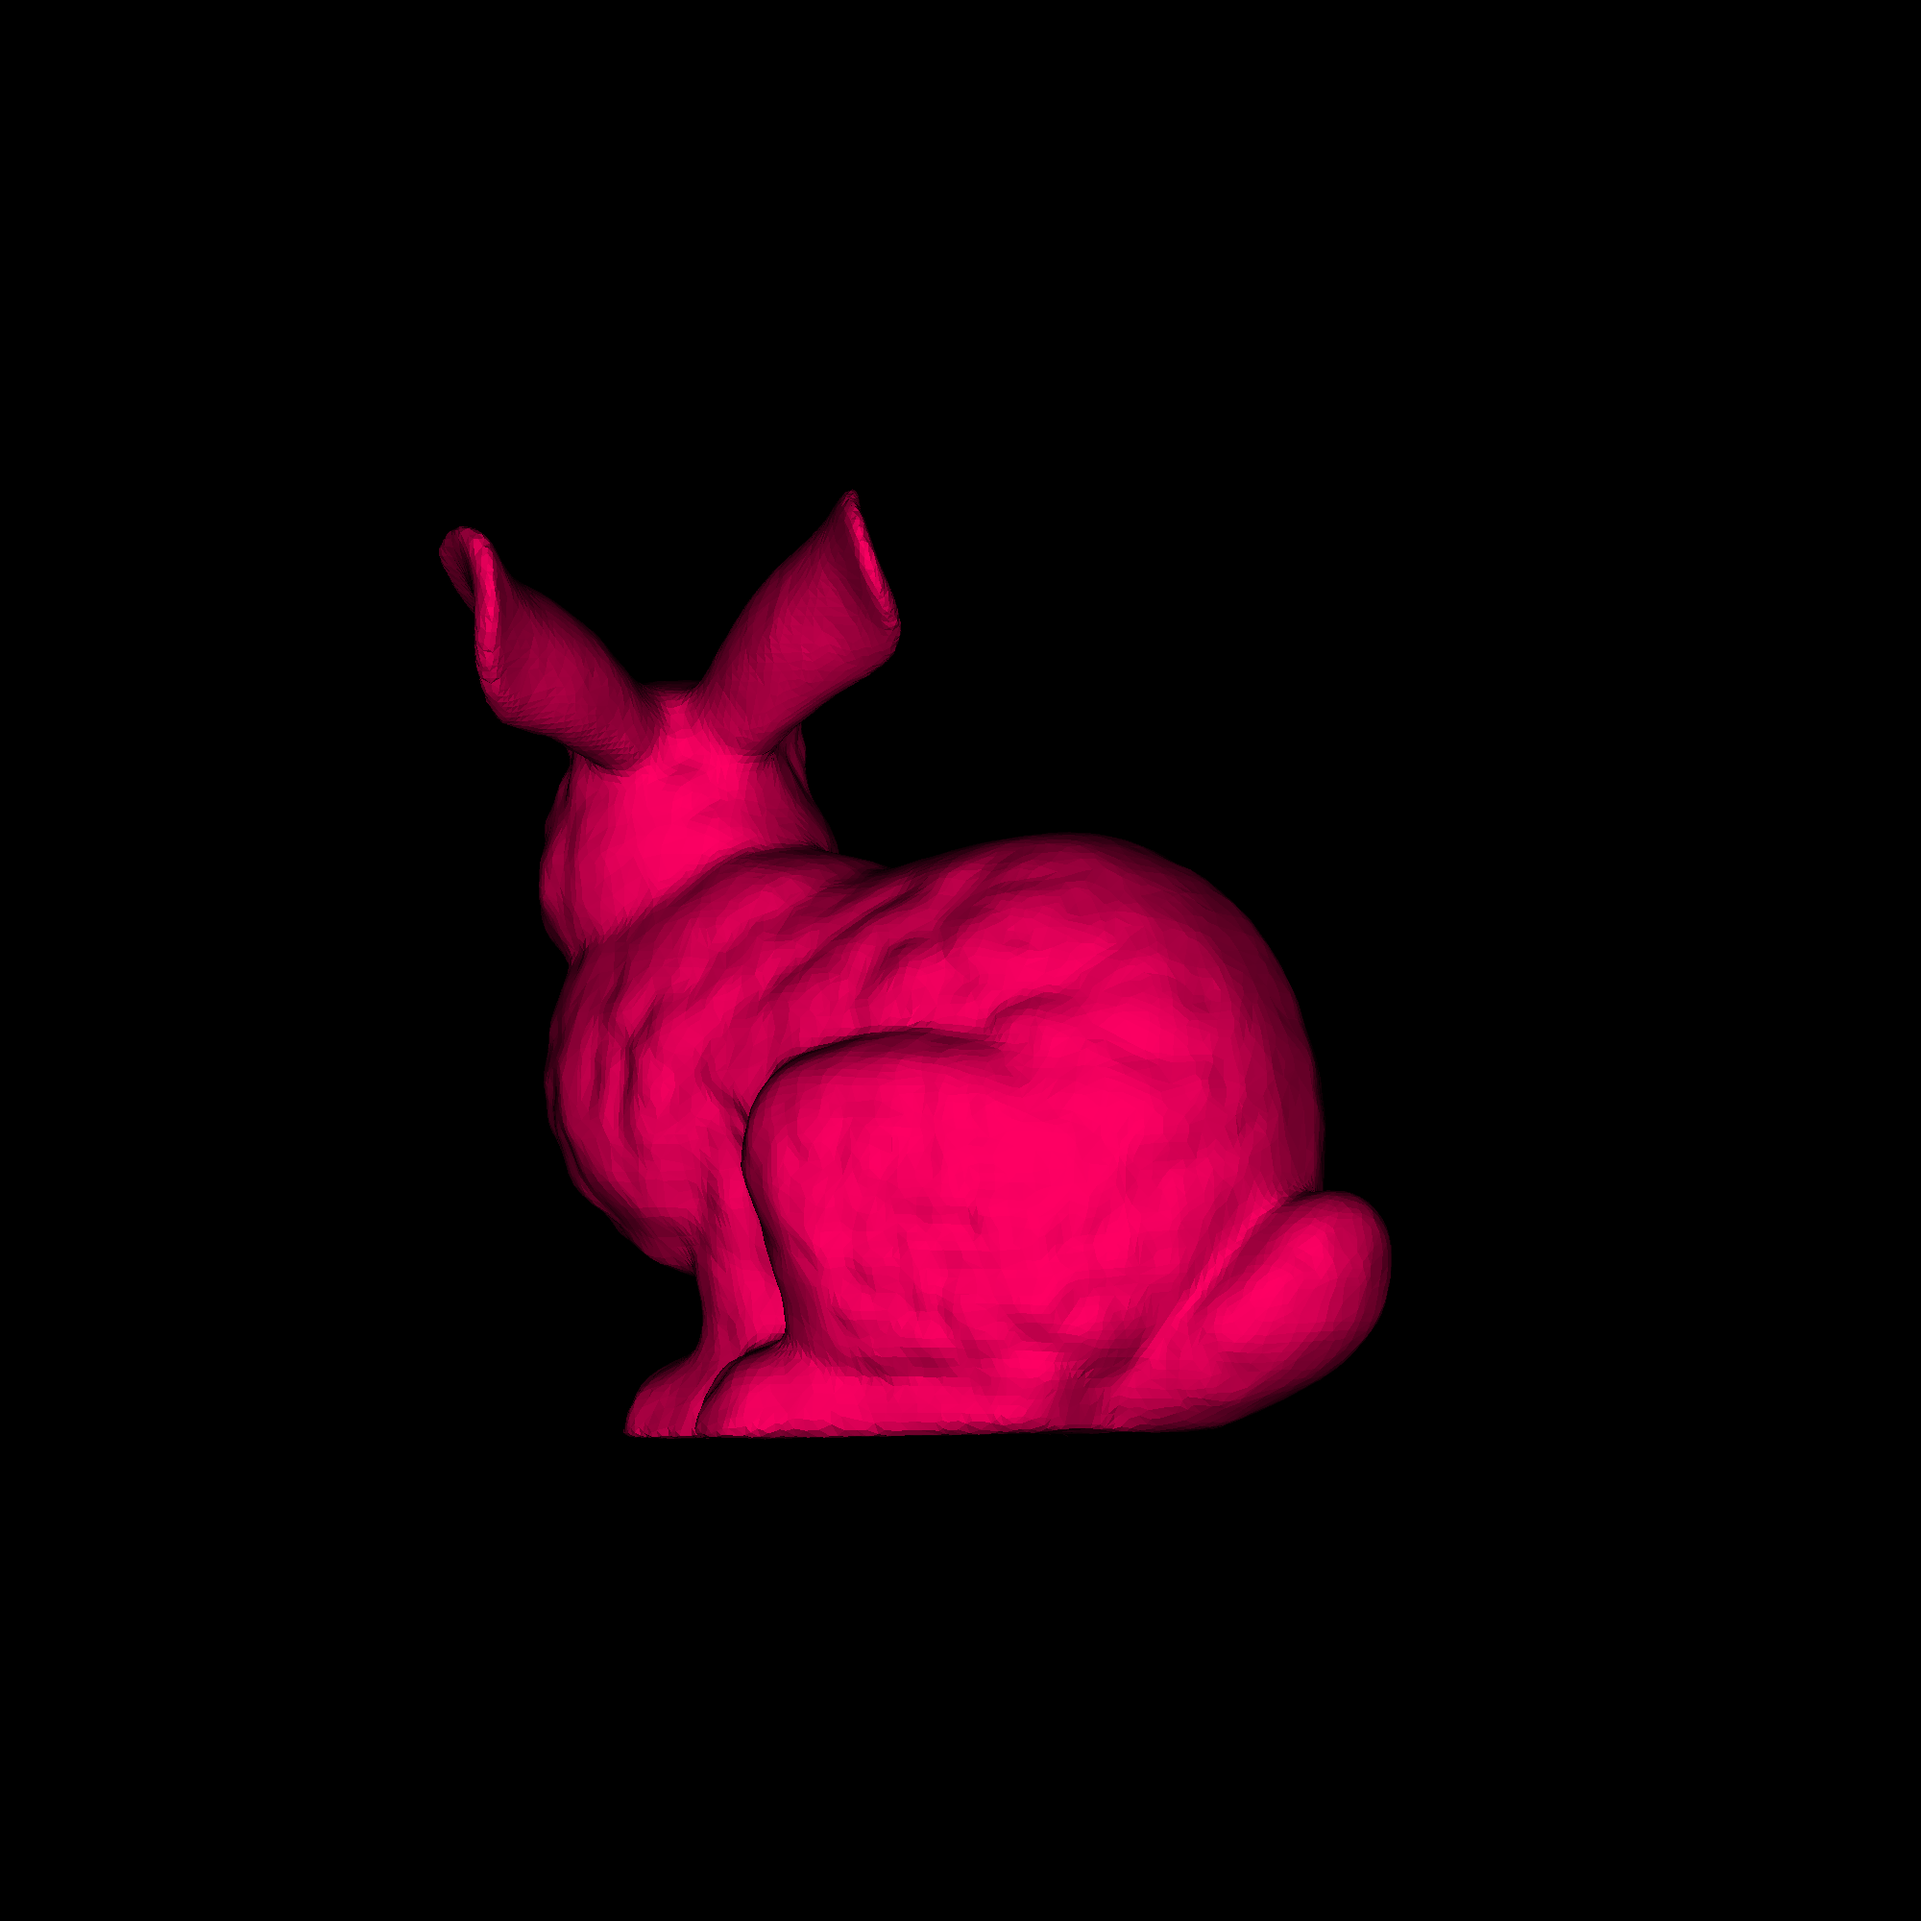
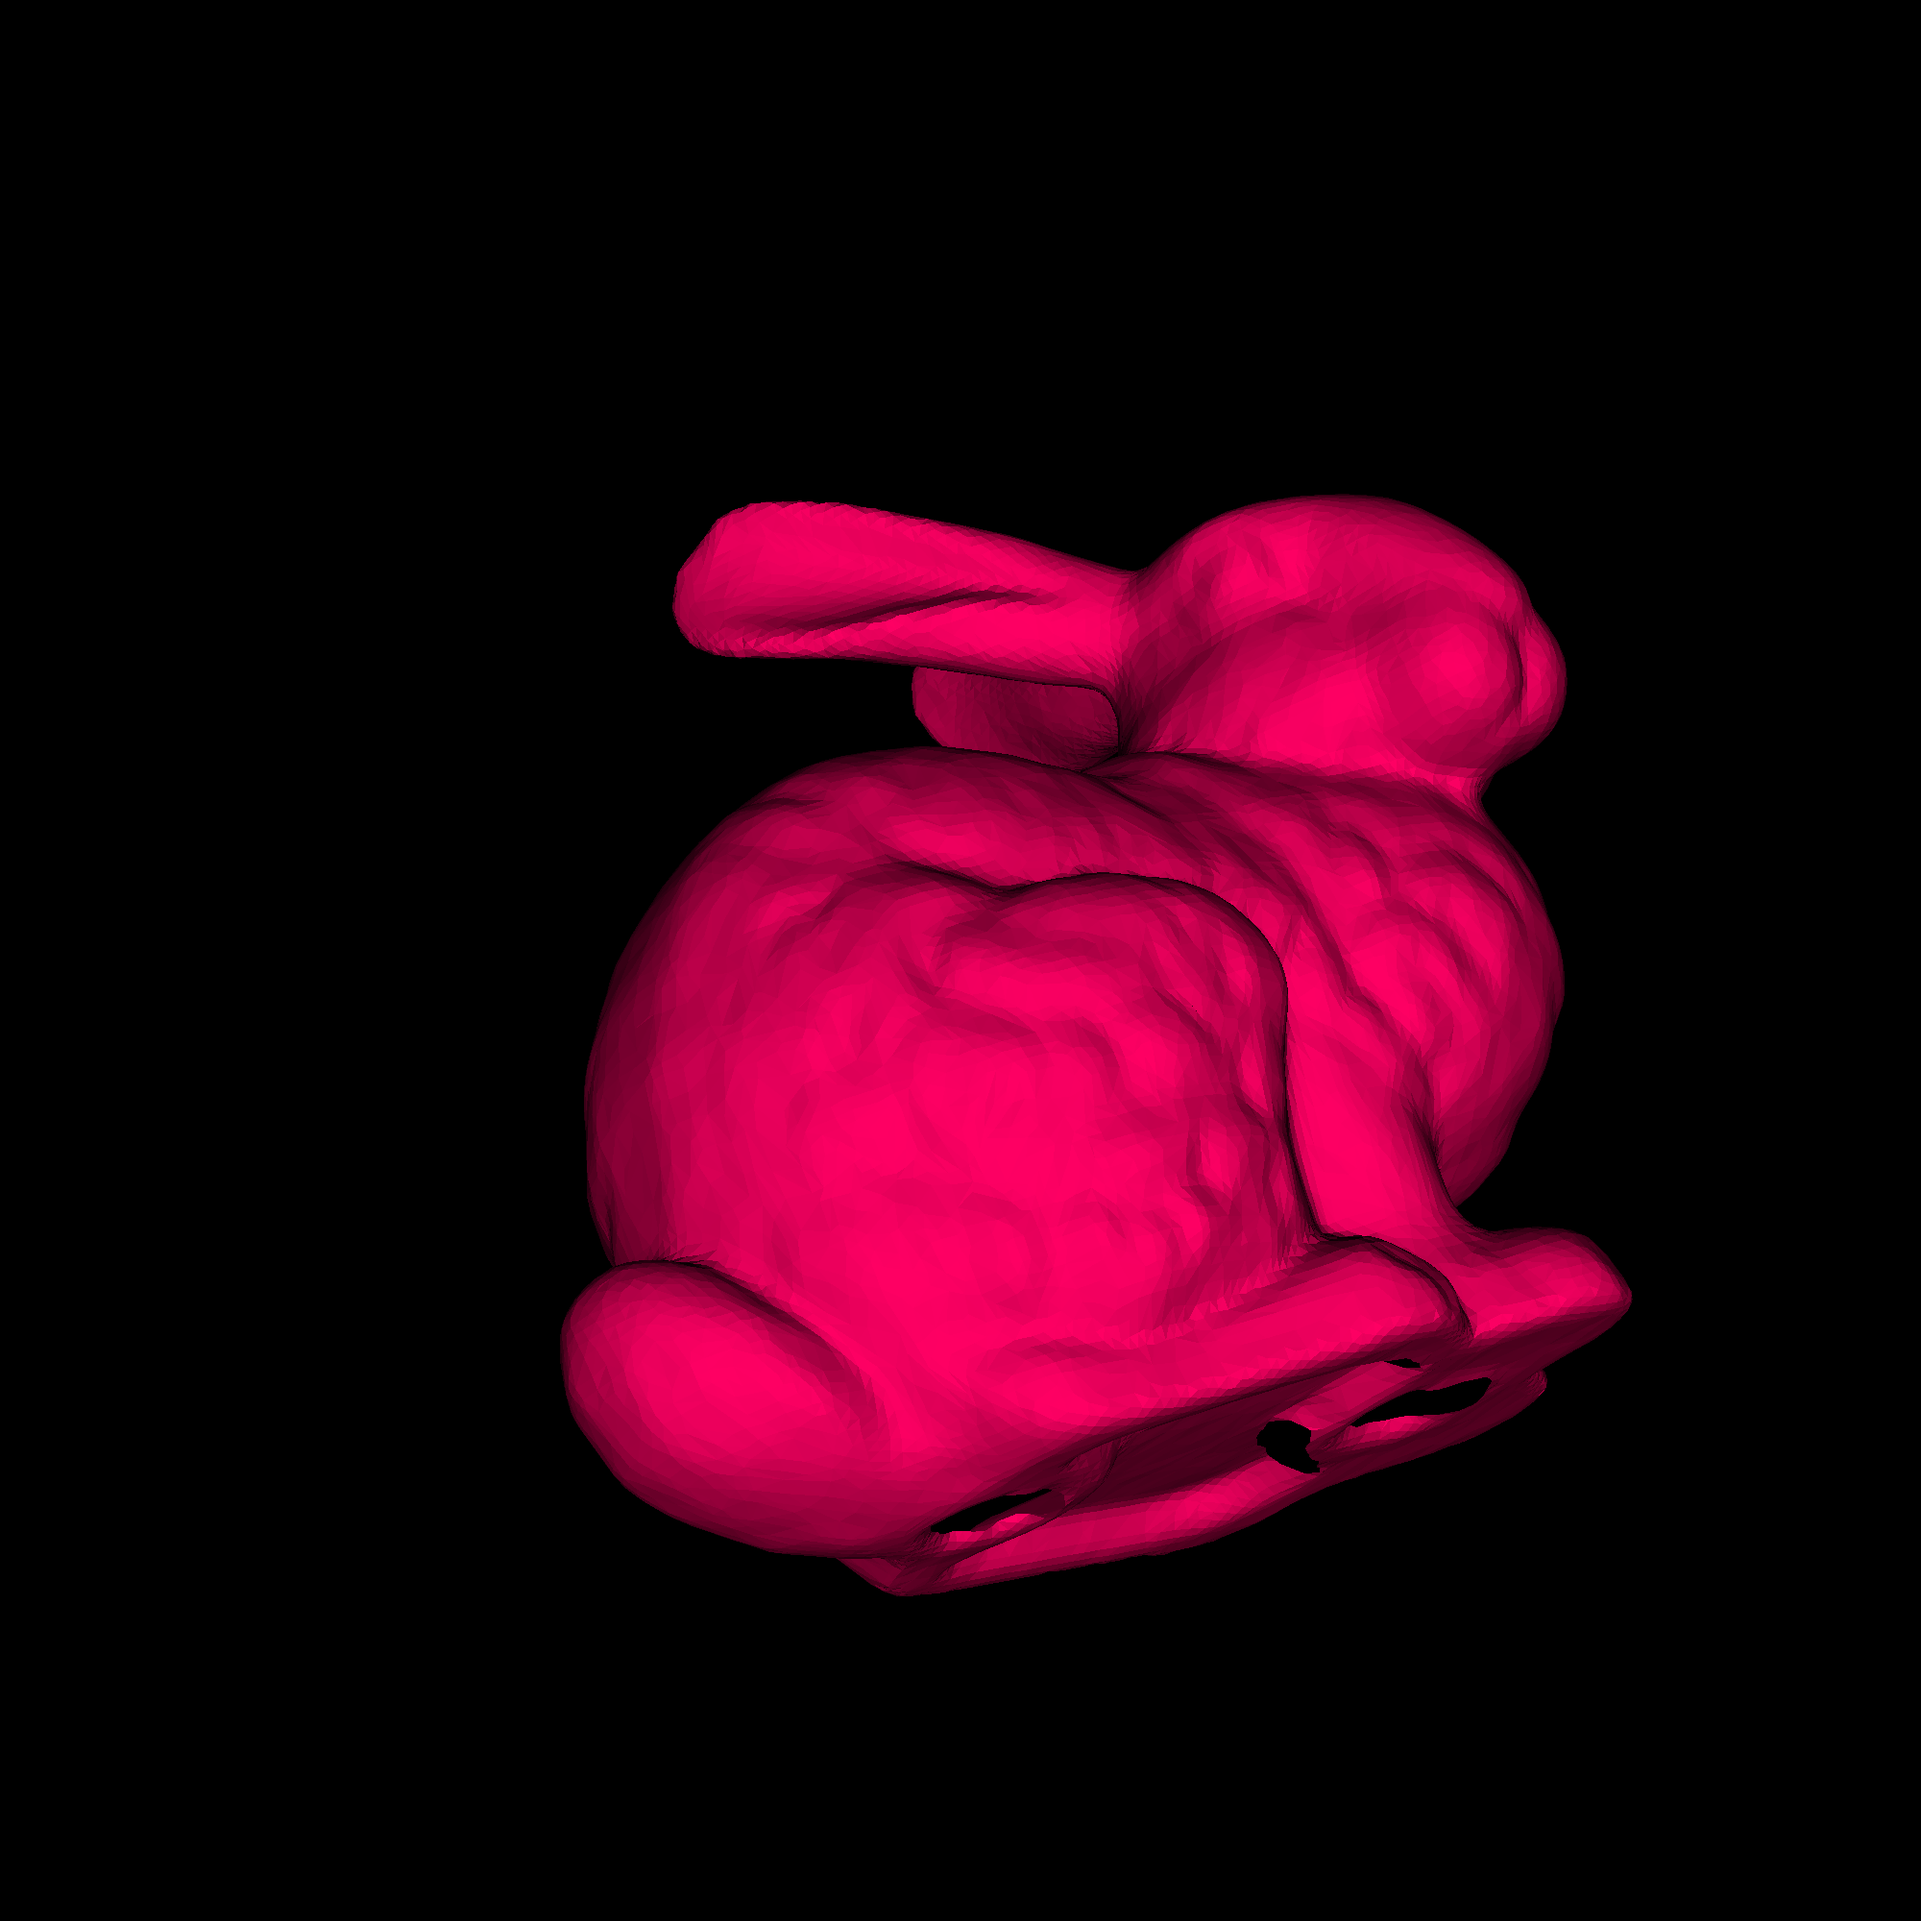
changing the rotation and the final version

Changed region(s): [[0.217, 0.248, 0.868, 0.837], [0.496, 0.62, 0.527, 0.651]]

diff --git a/lab3_kg/main.py b/lab3_kg/main.py
@@ -27,6 +27,26 @@ def triangle(x0, y0, z0, x1, y1, z1, x2, y2, z2, img, z_buff, color):
                     img[j, i] = color
     return img
 
+def project_vertex(vertex, ax, ay, u0, v0, z_offset):
+   # """Проективное преобразование 3D -> 2D"""
+    x, y, z = vertex
+    z = z + z_offset  # Сдвигаем модель, чтобы Z был положительным
+    return [
+        (ax * x / z) + u0,  # Экранная координата u
+        (ay * y / z) + v0,   # Экранная координата v
+        z  # Сохраняем z для z-буфера
+    ]
+
+
+
+def rotate_x(vertex, angle):
+    cos_a = math.cos(angle)
+    sin_a = math.sin(angle)
+    x, y, z = vertex
+    y_new = cos_a * y + sin_a * z
+    z_new = -sin_a * y + cos_a * z
+    return [x, y_new, z_new]
+
 def rotate_y(vertex, angle):
     cos_a = math.cos(angle)
     sin_a = math.sin(angle)
@@ -34,6 +54,15 @@ def rotate_y(vertex, angle):
     x_new = cos_a * x + sin_a * z
     z_new = -sin_a * x + cos_a * z
     return [x_new, y, z_new]
+
+
+def rotate_z(vertex, angle):
+    cos_a = math.cos(angle)
+    sin_a = math.sin(angle)
+    x, y, z = vertex
+    x_new = cos_a * x - sin_a * y
+    y_new = sin_a * x + cos_a * y
+    return [x_new, y_new, z]
 
 V = []
 F = []
@@ -44,30 +73,47 @@ for line in model:
     if s[0] == 'f':
         F.append([int(s[1].split('/')[0]), int(s[2].split('/')[0]), int(s[3].split('/')[0])])
 
-angle_y = math.radians(30)  # Угол поворота вокруг оси Y (30 градусов)
+# Центрирование модели
+min_coords = np.min(V, axis=0)
+max_coords = np.max(V, axis=0)
+center = (min_coords + max_coords) / 2
+V = [[v[0]-center[0], v[1]-center[1], v[2]-center[2]] for v in V]
+
+# Углы вращения (в радианах)
+angle_x = math.radians(20)  # Вращение вокруг X
+angle_y = math.radians(150)  # Вращение вокруг Y
+angle_z = math.radians(10)  # Вращение вокруг Z
+
+# Применяем вращения ко всем вершинам
+V = [rotate_x(v, angle_x) for v in V]
 V = [rotate_y(v, angle_y) for v in V]
+V = [rotate_z(v, angle_z) for v in V]
 
-img_mat = np.zeros((2000, 2000, 3), dtype=np.uint8)
-z_buff = np.full((2000, 2000), np.inf, dtype=np.float32)
+# Параметры проекции
+ax, ay = 5000, 5000  # Коэффициенты масштабирования
+u0, v0 = 1000, 1000  # Центр изображения
+z_offset = 0.4  # Сдвиг модели по Z (чтобы вся модель была перед камерой)
 
-u0,v0=1000,1000
-ax=100
-ay=100
+# Инициализация изображения и z-буфера
+img_mat = np.zeros((2000, 2000, 3), dtype=np.uint8)  # Черное изображение 2000x2000
+z_buff = np.full((2000, 2000), np.inf, dtype=np.float32)  # Z-буфер
 
-for i in range(len(F)):
-    x0 = (V[F[i][0] - 1][0]) * 10000 + 1000
-    y0 = (V[F[i][0] - 1][1]) * 10000 + 500
-    x1 = (V[F[i][1] - 1][0]) * 10000 + 1000
-    y1 = (V[F[i][1] - 1][1]) * 10000 + 500
-    x2 = (V[F[i][2] - 1][0]) * 10000 + 1000
-    y2 = (V[F[i][2] - 1][1]) * 10000 + 500
-    z0 = (V[F[i][0] - 1][2]) * 10000 + 1000   
-    z1 = (V[F[i][1] - 1][2]) * 10000 + 1000
-    z2 = (V[F[i][2] - 1][2]) * 10000 + 1000
-
-    u = np.array([x1 - x0, y1 - y0, z1 - z0])
-    v = np.array([x2 - x0, y2 - y0, z2 - z0])
-
+# Отрисовка каждой грани
+for face in F:
+    # Получаем вершины грани
+    v0_idx, v1_idx, v2_idx = face[0]-1, face[1]-1, face[2]-1
+    v0_3d = V[v0_idx]
+    v1_3d = V[v1_idx]
+    v2_3d = V[v2_idx]
+    
+    # Проецируем вершины на экран с учетом перспективы
+    v0_proj = project_vertex(v0_3d, ax, ay, u0, v0, z_offset)
+    v1_proj = project_vertex(v1_3d, ax, ay, u0, v0, z_offset)
+    v2_proj = project_vertex(v2_3d, ax, ay, u0, v0, z_offset)
+    
+    # Вычисляем нормаль к грани для определения видимости
+    u = np.array(v1_3d) - np.array(v0_3d)
+    v = np.array(v2_3d) - np.array(v0_3d)
     n = np.cross(u, v)
     
     l = np.array([0, 0, 1])  # свет
@@ -75,7 +121,12 @@ for i in range(len(F)):
     coss = np.dot(n, l) / (np.linalg.norm(n) * np.linalg.norm(l))
     color = (-255 * coss, 0, -100 * coss)
     if coss < 0:
-        triangle(x0, y0, z0, x1, y1, z1, x2, y2, z2, img_mat, z_buff, color)
+        triangle(
+            v0_proj[0], v0_proj[1], v0_proj[2],
+            v1_proj[0], v1_proj[1], v1_proj[2],
+            v2_proj[0], v2_proj[1], v2_proj[2],
+            img_mat, z_buff, color
+        )
 
 img = Image.fromarray(img_mat, mode='RGB')
 img = ImageOps.flip(img)
